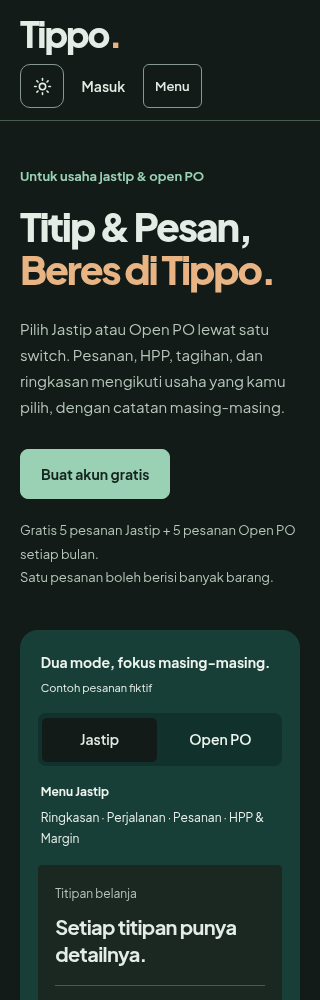
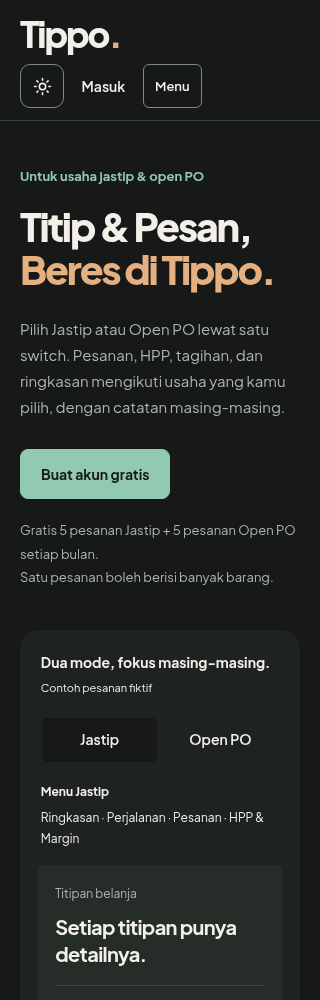
Refresh dark theme with warm charcoal and business accents

Changed region(s): [[0.0625, 0.62, 0.9375, 1.0]]

diff --git a/src/app/theme.css b/src/app/theme.css
@@ -75,106 +75,109 @@
 }
 :root[data-theme="dark"] {
   color-scheme: dark;
-  --ink: #e3ede5; --muted: #b1c1b7; --primary: #9ad1b5; --warning: #e8b484; --danger: #f1a297; --border: #465c4e; --control-border: #87998f; --canvas: #121b17;
-  --tone-surface-173f38: #173f38;
-  --tone-text-f7f4ed: #eef4ee;
-  --tone-line-173f38: #87998f;
-  --tone-text-d9b68e: #b7c7bc;
-  --tone-text-b7ccc0: #b7c7bc;
-  --tone-text-7d897f: #b7c7bc;
-  --tone-surface-245c4e: #245c4e;
-  --tone-text-fff: #eef4ee;
-  --tone-text-d4e0d8: #eef4ee;
-  --tone-text-173f38: #e3ede5;
-  --tone-surface-f7f4ed: #121b17;
-  --tone-surface-eef1ee: #28392f;
-  --tone-surface-ddeee5: #28392f;
-  --tone-surface-fbfaf6: #1b2822;
-  --tone-surface-eaf0e8: #28392f;
-  --tone-surface-fffefa: #1b2822;
-  --tone-line-173f3818: #87998f;
-  --tone-surface-edf5f1: #28392f;
-  --tone-surface-f7e4cb: #3e3022;
-  --tone-text-0b5e56: #9ad1b5;
-  --tone-surface-e0eade: #28392f;
-  --tone-surface-f2ddbf: #28392f;
-  --tone-surface-f5faf7: #1b2822;
-  --tone-surface-dde4de: #28392f;
-  --tone-surface-f1eee5: #28392f;
-  --tone-surface-f6f6ee: #28392f;
-  --tone-surface-fff2de: #3e3022;
-  --tone-surface-18312880: #18312880;
-  --tone-line-17352824: #87998f;
-  --tone-surface-fff2ed: #28392f;
-  --tone-surface-e1e9dc: #28392f;
-  --tone-surface-edeae0: #28392f;
-  --tone-surface-fffaf0: #3e3022;
-  --tone-surface-f6f1e7: #28392f;
-  --tone-surface-eeede7: #28392f;
-  --tone-surface-c9ddd0: #28392f;
-  --tone-surface-e9eae7: #2b342f;
-  --tone-text-626762: #b7c7bc;
-  --tone-line-7d817d: #87998f;
-  --tone-text-94501f: #e8b484;
-  --tone-text-fff2de: #eef4ee;
-  --tone-line-718278: #87998f;
-  --tone-text-233d35: #e3ede5;
-  --tone-surface-eae7dd: #28392f;
-  --tone-surface-fff: #1b2822;
-  --tone-text-245c4e: #9ad1b5;
-  --tone-line-94501f: #87998f;
-  --tone-text-53675f: #b7c7bc;
-  --tone-line-dedcd3: #465c4e;
-  --tone-text-d8e8df: #eef4ee;
-  --tone-surface-11322c: #11322c;
-  --tone-surface-fffdf8: #1b2822;
-  --tone-line-e8e5dc: #465c4e;
-  --tone-surface-edf2e9: #28392f;
-  --tone-surface-e8ede4: #28392f;
-  --tone-surface-f4e8d8: #3e3022;
-  --tone-line-537267: #87998f;
-  --tone-surface-eef1e9: #28392f;
-  --tone-surface-f3e8d7: #3e3022;
-  --tone-line-76857b: #87998f;
-  --tone-surface-eceee6: #28392f;
-  --tone-line-245c4e: #87998f;
-  --tone-text-963c28: #f1a297;
-  --tone-surface-fff4ef: #28392f;
-  --tone-text-235746: #9ad1b5;
-  --tone-surface-edf5ee: #28392f;
-  --tone-line-c8d0c5: #465c4e;
-  --tone-text-d5e0d7: #eef4ee;
-  --tone-line-789285: #87998f;
-  --tone-text-f1c8a6: #eef4ee;
-  --tone-line-c9d7cf: #465c4e;
-  --tone-text-8a4b16: #e8b484;
-  --tone-surface-f7f4edee: #121b17;
+  --ink: #f2f0e9; --muted: #adb6ae; --primary: #91c9b1; --warning: #e4b080; --danger: #f0a89d; --border: #3b443e; --control-border: #7b8980; --canvas: #171918;
+  --tone-surface-173f38: #1e2220;
+  --tone-text-f7f4ed: #f2f0e9;
+  --tone-line-173f38: #3b443e;
+  --tone-text-d9b68e: #adb6ae;
+  --tone-text-b7ccc0: #adb6ae;
+  --tone-text-7d897f: #adb6ae;
+  --tone-surface-245c4e: #303832;
+  --tone-text-fff: #f2f0e9;
+  --tone-text-d4e0d8: #f2f0e9;
+  --tone-text-173f38: #f2f0e9;
+  --tone-surface-f7f4ed: #171918;
+  --tone-surface-eef1ee: #2b312d;
+  --tone-surface-ddeee5: #2b312d;
+  --tone-surface-fbfaf6: #1e2220;
+  --tone-surface-eaf0e8: #2b312d;
+  --tone-surface-fffefa: #262c28;
+  --tone-line-173f3818: #00000040;
+  --tone-surface-edf5f1: #2b312d;
+  --tone-surface-f7e4cb: #3b3027;
+  --tone-text-0b5e56: #91c9b1;
+  --tone-surface-e0eade: #2b312d;
+  --tone-surface-f2ddbf: #2b312d;
+  --tone-surface-f5faf7: #262c28;
+  --tone-surface-dde4de: #2b312d;
+  --tone-surface-f1eee5: #2b312d;
+  --tone-surface-f6f6ee: #2b312d;
+  --tone-surface-fff2de: #3b3027;
+  --tone-surface-18312880: #080a09b3;
+  --tone-line-17352824: #00000040;
+  --tone-surface-fff2ed: #2b312d;
+  --tone-surface-e1e9dc: #2b312d;
+  --tone-surface-edeae0: #2b312d;
+  --tone-surface-fffaf0: #3b3027;
+  --tone-surface-f6f1e7: #2b312d;
+  --tone-surface-eeede7: #2b312d;
+  --tone-surface-c9ddd0: #2b312d;
+  --tone-surface-e9eae7: #303631;
+  --tone-text-626762: #adb6ae;
+  --tone-line-7d817d: #7b8980;
+  --tone-text-94501f: #e4b080;
+  --tone-text-fff2de: #f2f0e9;
+  --tone-line-718278: #7b8980;
+  --tone-text-233d35: #f2f0e9;
+  --tone-surface-eae7dd: #2b312d;
+  --tone-surface-fff: #262c28;
+  --tone-text-245c4e: #91c9b1;
+  --tone-line-94501f: #7b8980;
+  --tone-text-53675f: #adb6ae;
+  --tone-line-dedcd3: #3b443e;
+  --tone-text-d8e8df: #f2f0e9;
+  --tone-surface-11322c: #1e2220;
+  --tone-surface-fffdf8: #262c28;
+  --tone-line-e8e5dc: #3b443e;
+  --tone-surface-edf2e9: #2b312d;
+  --tone-surface-e8ede4: #2b312d;
+  --tone-surface-f4e8d8: #3b3027;
+  --tone-line-537267: #7b8980;
+  --tone-surface-eef1e9: #2b312d;
+  --tone-surface-f3e8d7: #3b3027;
+  --tone-line-76857b: #7b8980;
+  --tone-surface-eceee6: #2b312d;
+  --tone-line-245c4e: #7b8980;
+  --tone-text-963c28: #f0a89d;
+  --tone-surface-fff4ef: #2b312d;
+  --tone-text-235746: #91c9b1;
+  --tone-surface-edf5ee: #2b312d;
+  --tone-line-c8d0c5: #3b443e;
+  --tone-text-d5e0d7: #f2f0e9;
+  --tone-line-789285: #7b8980;
+  --tone-text-f1c8a6: #f2f0e9;
+  --tone-line-c9d7cf: #3b443e;
+  --tone-text-8a4b16: #e4b080;
+  --tone-surface-f7f4edee: #171918;
 }
 
 .theme-toggle { display: inline-flex; align-items: center; justify-content: center; width: 44px; height: 44px; flex-shrink: 0; border: 1px solid var(--control-border); border-radius: 10px; background: transparent; color: var(--ink); }
 .theme-toggle:hover { background: var(--tone-surface-eaf0e8); }
 :root[data-theme="dark"] .btn-primary,
 :root[data-theme="dark"] .landing-button.primary,
-:root[data-theme="dark"] .auth-submit { background: #9ad1b5; color: #14251e; border-color: #9ad1b5; }
+:root[data-theme="dark"] .auth-submit { background: var(--primary); color: var(--on-action); border-color: var(--primary); }
 :root[data-theme="dark"] .btn-primary:hover,
 :root[data-theme="dark"] .landing-button.primary:hover,
-:root[data-theme="dark"] .auth-submit:hover { background: #b7e4cb; }
+:root[data-theme="dark"] .auth-submit:hover { background: var(--business-hover); }
 :root[data-theme="dark"] .nav-item.active,
-:root[data-theme="dark"] .nav-item.active:hover { background: #9ad1b5; color: #14251e; }
+:root[data-theme="dark"] .nav-item.active:hover { background: #293a32; color: var(--primary); }
 :root[data-theme="dark"] input:disabled,
 :root[data-theme="dark"] input[readonly],
 :root[data-theme="dark"] textarea:disabled,
 :root[data-theme="dark"] textarea[readonly],
 :root[data-theme="dark"] .select-trigger:disabled,
 :root[data-theme="dark"] .select-option[data-disabled],
-:root[data-theme="dark"] .po-product-prices { color: #b1b7b2; background: #2b342f; border-color: #89958b; }
+:root[data-theme="dark"] .po-product-prices { color: #adb6ae; background: #303631; border-color: #7b8980; }
 
 :root { --paper: #ffffff; --on-action: #ffffff; }
-:root[data-theme="dark"] { --paper: #1b2822; --on-action: #14251e; }
-:root[data-theme="dark"] .btn-primary { color: #14251e !important; background: #9ad1b5 !important; }
-:root[data-theme="dark"] .toast { background: #28392f; color: #e3ede5; border: 1px solid #87998f; }
+:root[data-theme="dark"] { --paper: #262c28; --on-action: #171918; --business-hover: #a7d6c2; }
+:root[data-theme="dark"] .btn-primary { color: var(--on-action) !important; background: var(--primary) !important; }
+:root[data-theme="dark"] .btn-primary:hover { background: var(--business-hover) !important; }
+:root[data-theme="dark"] .native-dialog,
+:root[data-theme="dark"] .modal { background: #1e2220; }
+:root[data-theme="dark"] .toast { background: #262c28; color: #f2f0e9; border: 1px solid #7b8980; }
 :root[data-theme="dark"] .toast > svg,
-:root[data-theme="dark"] .toast button { color: #e3ede5; }
+:root[data-theme="dark"] .toast button { color: #f2f0e9; }
 
 :root[data-business-mode="po"] {
   --primary: #94501f;
@@ -185,12 +188,12 @@
   --business-sidebar-hover: #65412a;
 }
 :root[data-theme="dark"][data-business-mode="po"] {
-  --primary: #e8b484;
-  --chart-cost: #b1c1b7;
-  --business-hover: #f3cca8;
-  --business-soft: #382d22;
-  --business-sidebar: #241e18;
-  --business-sidebar-hover: #493424;
+  --primary: #e4b080;
+  --chart-cost: #adb6ae;
+  --business-hover: #edc4a0;
+  --business-soft: #3b3027;
+  --business-sidebar: #1e2220;
+  --business-sidebar-hover: #303832;
 }
 :root[data-business-mode="po"] .sidebar { background: var(--business-sidebar); border-right-color: var(--business-sidebar); }
 :root[data-business-mode="po"] .nav-item:hover { background: var(--business-sidebar-hover); }
@@ -201,9 +204,10 @@
 :root[data-business-mode="po"] .quota-banner { background: var(--business-soft); }
 :root[data-business-mode="po"] .btn-primary { background: var(--primary) !important; color: var(--on-action) !important; border-color: var(--primary); }
 :root[data-business-mode="po"] .btn-primary:hover { background: var(--business-hover) !important; }
+:root[data-theme="dark"] .sidebar { border-right-color: var(--border); }
 
 .status-ready,.status-done,.select-trigger.status-done,.mobile-row-heading small { color: #245c4e; }
 :root[data-theme="dark"] .status-ready,
 :root[data-theme="dark"] .status-done,
 :root[data-theme="dark"] .select-trigger.status-done,
-:root[data-theme="dark"] .mobile-row-heading small { color: #9ad1b5; }
+:root[data-theme="dark"] .mobile-row-heading small { color: #91c9b1; }

diff --git a/tests/website.spec.ts b/tests/website.spec.ts
@@ -86,7 +86,7 @@ test(`homepage interactions and mobile navigation lead to real routes ${width} $
   await page.screenshot({path:`docs/preview-landing-po-${width}-${theme}.png`});
   await page.locator("summary").filter({hasText:"Apakah ringkasan Jastip dan Open PO digabung?"}).click();
   await expect(page.locator("details[open]")).toContainText("Tidak. Penjualan, HPP, pembayaran, tagihan, dan grafik bulanan hanya menampilkan usaha yang sedang dipilih.");
-  await expect(page.locator(".testimonials-section")).toContainText("Belum merupakan ulasan pelanggan asli.");
+  await expect(page.locator('[aria-labelledby="testimonials-title"]')).toContainText("Belum merupakan ulasan pelanggan asli.");
   await expect(page.locator(".testimonials-list figure")).toHaveCount(2);
   await page.locator("summary").filter({hasText:"Satu pesanan bisa berisi beberapa barang?"}).click();
   await expect(page.getByText("Bisa. Tambahkan beberapa barang",{exact:false})).toBeVisible();

diff --git a/src/app/landing.css b/src/app/landing.css
@@ -56,8 +56,8 @@
 .ledger-mode-context { color: var(--tone-text-d8e8df); padding: 0 .2rem 1rem; font-size: .75rem; }
 .ledger-mode-context strong { font-weight: 650; }
 .ledger-mode-context p { margin-top: .35rem; }
-:root[data-theme="dark"] .order-ledger.ledger-po { background: #241e18; }
-:root[data-theme="dark"] .ledger-po .ledger-tabs { background: #382d22; }
+:root[data-theme="dark"] .order-ledger.ledger-po { background: #1e2220; }
+:root[data-theme="dark"] .ledger-po .ledger-tabs { background: #3b3027; }
 .order-ledger :is(button,a):focus-visible { outline-color:var(--tone-text-fff2de); }
 .ledger-page { background:var(--tone-surface-fffdf8); border-radius:4px; padding:1.1rem; }
 .ledger-heading { border-bottom:1px solid var(--tone-line-dedcd3); padding-bottom:1.1rem; }

diff --git a/docs/DARK-THEME.md b/docs/DARK-THEME.md
@@ -1,0 +1,17 @@
+# Warm charcoal dark theme
+
+Dark mode uses neutral charcoal surfaces across the workspace, landing page and account screens. Jastip keeps a mint accent; Open PO keeps an apricot accent. The shared palette also covers table headers, dropdowns, input fields, disabled states, dialog footers and notifications.
+
+| Element | Color |
+| --- | --- |
+| Canvas | `#171918` |
+| Sidebar / dialog | `#1E2220` |
+| Cards / inputs | `#262C28` |
+| Main text | `#F2F0E9` |
+| Secondary text | `#ADB6AE` |
+| Jastip accent | `#91C9B1` |
+| Open PO accent | `#E4B080` |
+
+Calculated contrast against card background: main text 12.50:1, secondary text 6.84:1, control border 3.89:1. Primary button text against mint is 9.42:1 and against apricot 9.10:1. These are checks of the listed color pairs, not a complete accessibility audit.
+
+Validation: lint and production build pass. Ten production Chromium browser checks cover business switching and order-dialog opening at 320, 768 and 1440 px in both themes, plus homepage interactions at 320 and 1440 px in both themes. Updated dark-mode screenshots are stored in the existing preview-business and preview-landing files. The landing test now scopes the example-testimonial assertion to its own section because public feedback uses the same layout class. Production Vercel deployment and physical mobile devices were not verified.
